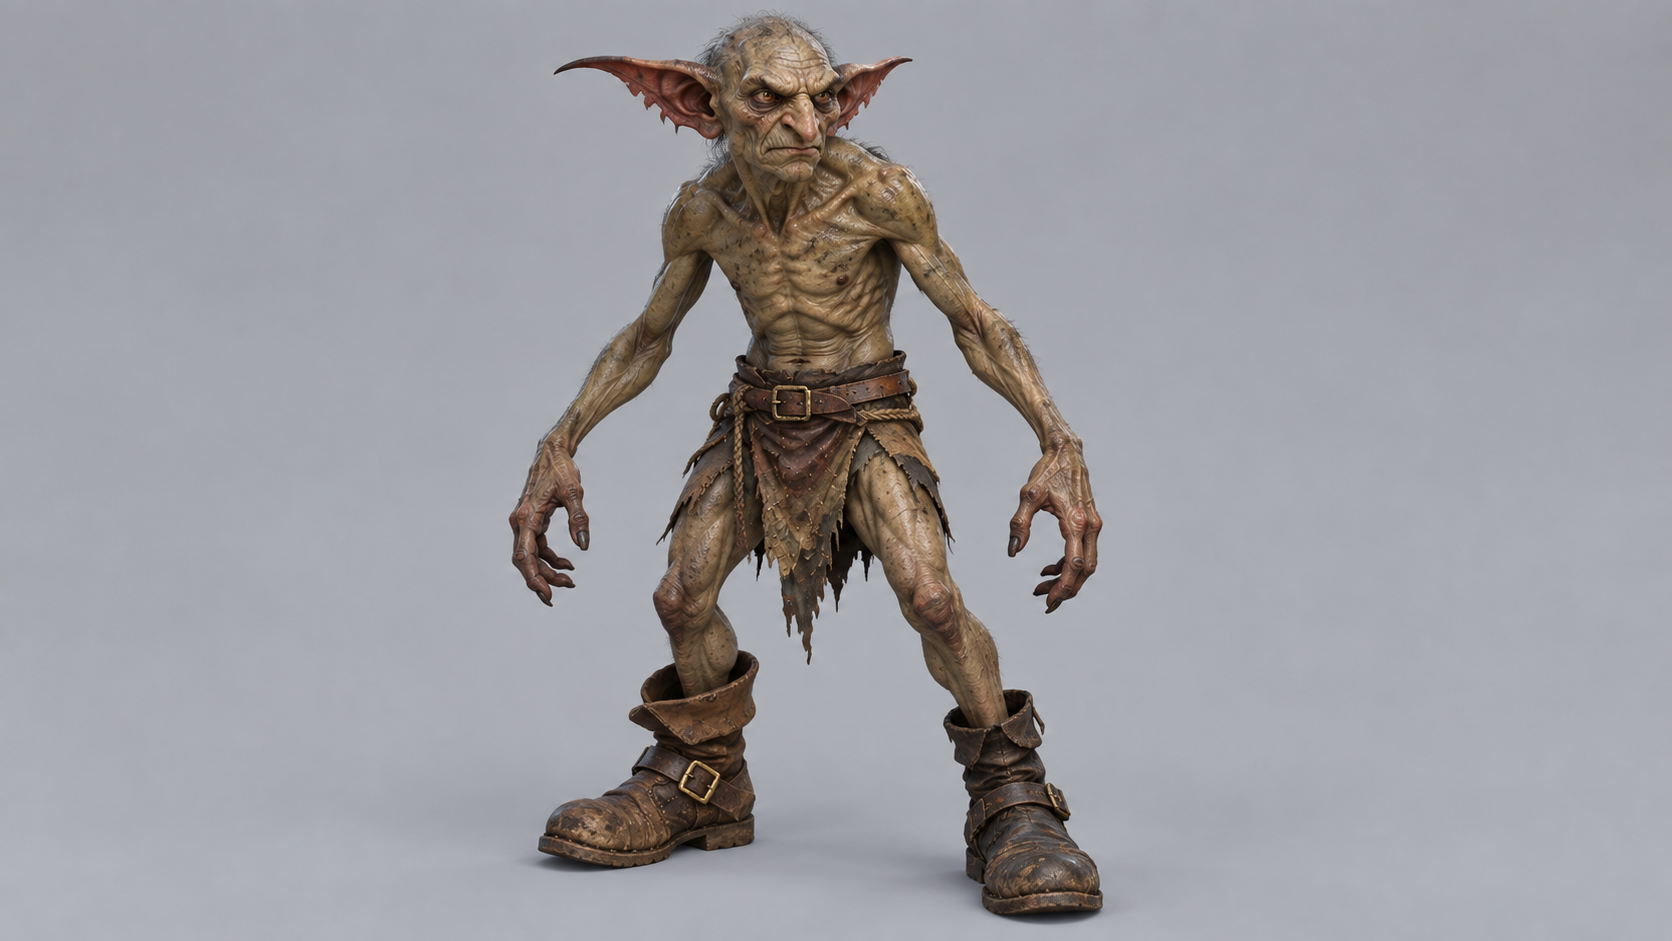
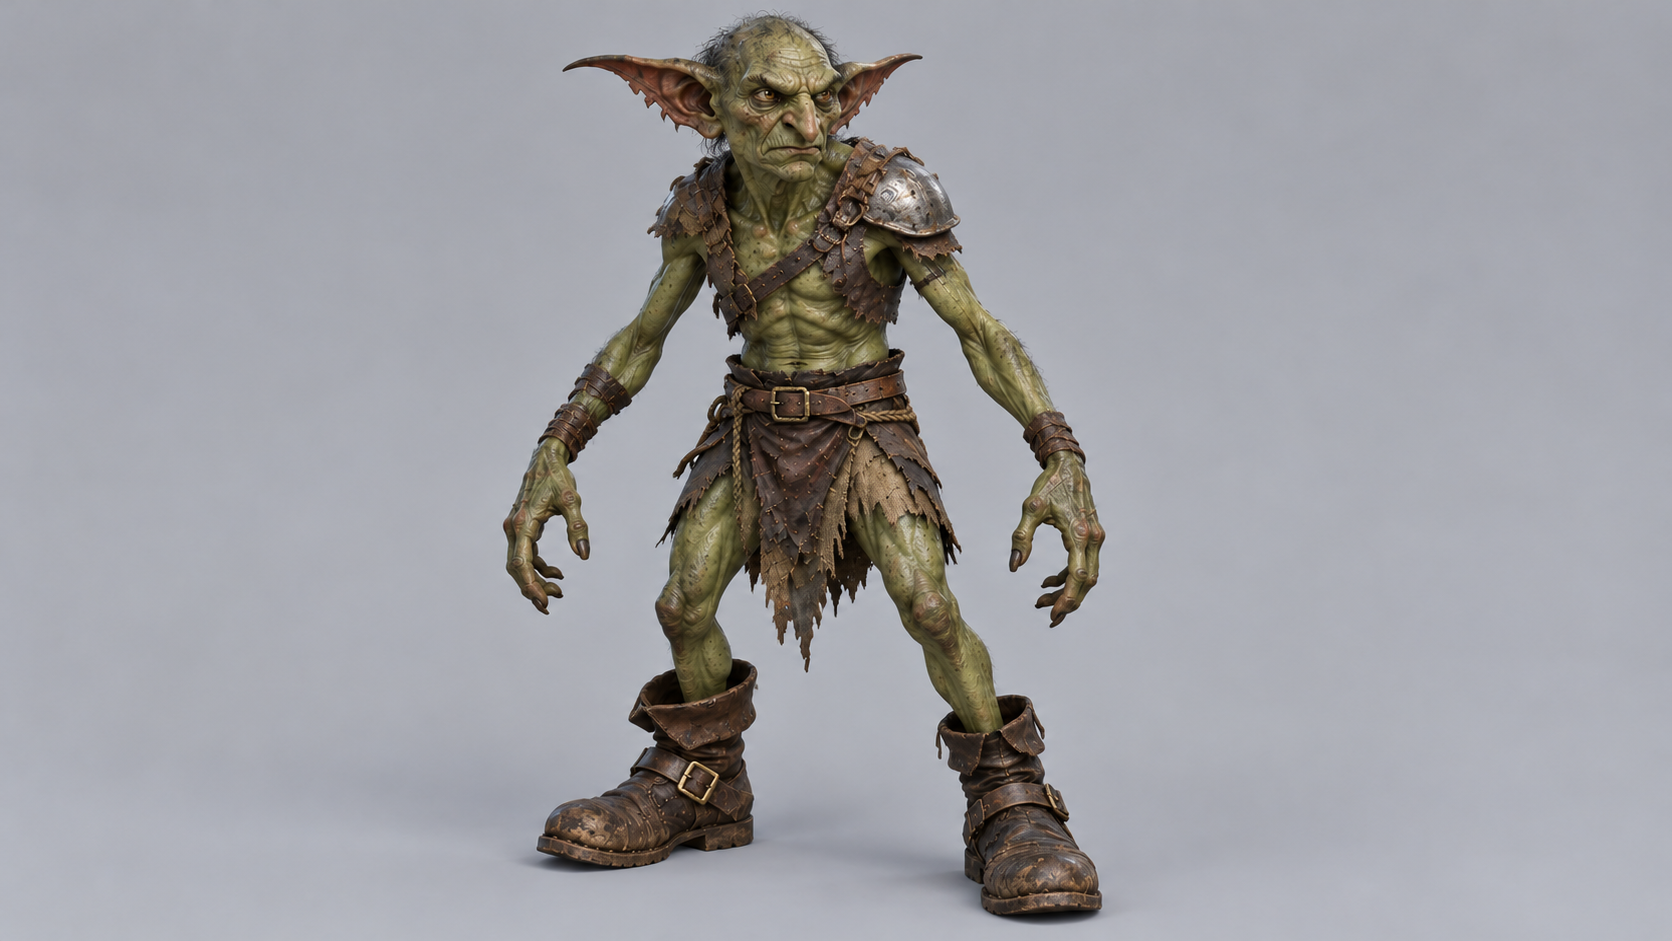
Goblin images

Changed region(s): [[0.2799, 0.0, 0.6842, 0.9554]]

diff --git a/.codex/skills/creature-model-references/references/prompt-recipes.md b/.codex/skills/creature-model-references/references/prompt-recipes.md
@@ -491,3 +491,60 @@ ONE complete adult creature, exactly TWO arms and ONE fish tail, no legs or wing
 
 Final gill anatomy: override any rib-like treatment with SOLID smooth grey flanks and a compact bank of four slender near-vertical crescent-shaped gill slits on each upper flank below the arm, arranged side by side rather than stacked down the torso. Narrow supple skin lips, flat continuous skin between slits, no white bars, raised ribs, exposed skeleton or large holes. Keep the lower flank intact. Keep every other part identical.
 ```
+
+
+### Goblin model-reference refresh — 10 October 2026
+
+One representative of each goblin people: Raider, Grunt and Gleaner. Built-in image generation; no correction rounds after the initial generation. The previous Green Goblin anchored studio presentation only; the Wolf anchored Red and Golden presentation only. All three were visually checked for two arms, two legs, separated limbs, complete framing and a plain background. Absolute size remains defined by the creature Markdown.
+
+#### Green Goblin — Raider
+
+Saved as `Assets/Creatures/Model-references/green-goblin-model-reference.png`. Fix rounds: 0. Known weak spots: Finger tips and layered leather edges may fuse; the shoulder plate covers part of the upper arm attachment.
+
+Consolidated prompt:
+
+```text
+Create ONE photorealistic high-end game creature MODEL REFERENCE, full body, neutral rig-friendly pose, intended for single-image image-to-3D reconstruction.
+Input image role: attached old goblin model reference is ONLY a studio lighting, background and photographic material finish anchor. Build anatomy and colours freshly from the written description below. Especially replace its tan/brown skin with unmistakable dull OLIVE GREEN.
+
+Subject: adult Green Goblin, representative Raider, hunched wiry humanoid 1.40 metres tall, 35–45 kilograms.
+Anatomy most important: exactly TWO arms attached at sharp shoulders, TWO legs at hips, four limbs total. Lean wiry long arms and legs, long fingers with five distinctly separated digits per hand, oversized pointed ears, narrow restless suspicious face, angular shoulders. A compact lightly hunched upright body, neck subtly forward; not muscular bodybuilder, not dwarf. Natural humanoid joints, clear gaps between arms and ribcage and between both legs. No horns, no wings, no tail.
+Appearance: dull olive-green skin, darker mossy green-brown on back and outer shoulders, muted paler olive inside arms and abdomen. Realistic pores, subtle dirt, uneven pigmentation. Face should remain a narrow cunning goblin, pronounced ear cartilage and nose, closed mouth. Sparse unkempt hair. Raider clothing: patched fitted leather shoulder protection, sparse worn leather chest straps leaving substantial green torso visible, rope belt with a few mismatched stolen buckles, short ragged cloth/leather hip covering and mismatched oversized stolen boots. One small battered hammered-pot armour plate secured to a shoulder; do not obscure elbow or shoulder attachment. Attached clothing only, no loose scavenged objects.
+Pose: neutral A-pose, both arms angled down about 45 degrees OUT from torso, elbows gently straight, EMPTY open hands, fingers spaced. Legs slightly apart, both boots flat visible separately. Retain species' mild hunch but no deep crouch, gesture, action or held weapon.
+Camera and presentation: three-quarter front view roughly 30–40 degrees, camera slightly above, sufficient separation to see both complete arms, both hands and both legs. All ear tips, fingers and boots inside frame with 5% margin. Plain LIGHT GREY seamless studio background, very soft even neutral lighting, no strong cast shadow, no scenery, text, labels, scale silhouette, border, books, weapons or shields. Photorealistic detailed skin, worn real leather and fabric, realistic high-end game model; never ink illustration, cartoon or metallic statue. ONE creature only.
+```
+
+#### Red Goblin — Grunt
+
+Saved as `Assets/Creatures/Model-references/red-goblin-model-reference.png`. Fix rounds: 0. Known weak spots: Overlapping scrap plates, shoulder spikes and knuckle guards may merge into solid geometry; armour conceals some underlying anatomy.
+
+Consolidated prompt:
+
+```text
+Create ONE photorealistic high-end game creature MODEL REFERENCE, full body, neutral rig-friendly pose, intended for single-image image-to-3D reconstruction. This is a NEW humanoid creature, not the animal in the reference.
+Input image role: attached wolf is ONLY a studio finish anchor: plain light-grey seamless background, soft even neutral lighting, realistic photographic material detail. Do not borrow wolf anatomy, fur or posture.
+
+Subject: adult RED GOBLIN GRUNT, a heavily muscular human-sized war goblin, 1.75–1.85 metres tall, 85–110 kilograms, NOT a small green goblin.
+Anatomy: exactly TWO humanoid arms at shoulders and TWO legs at hips, four limbs total. Thick neck, deep chest, very heavy shoulders, long powerful arms, large hands and muscular forearms. Slight forward lean, otherwise upright balanced neutral pose. Narrow goblin jaw and oversized POINTED EARS, not a broad tusked orc head. Five distinct separated fingers on each empty open hand. Both complete legs, feet and hands clearly visible with negative space between limbs and torso. No horns, tail, wings or extra appendages.
+Appearance: matte BRICK RED to DARK RUST skin, deeper on upper shoulders scalp and back, paler warm rust-red on chest and inner arms, pale old healed scar lines. Small deep-set YELLOW eyes, coarse BLACK hair in a single TOPKNOT. Narrow angular face, closed mouth, severe expression. Armour: forge-blackened mismatched scrap iron overlapping jagged plates riveted onto worn leather, shoulder spikes and small knuckle plates, made from stolen pots cart fittings broken blades and battlefield helmets. Functional crude armour rather than polished fantasy knight plate. Keep neck and face exposed, substantial red upper arms and forearms visible, clear joint articulation. Compact scrap shoulder guards, open neckline, riveted torso plates and leather straps, short plated leather hip skirt, separated arm bracers and greaves; complete foot coverings. Helmet left off to reveal facial anatomy. No shield or held weapon.
+Pose: neutral A-pose, both arms angled down about 45 degrees away from body, straight relaxed elbows, EMPTY open hands with separated fingers, palms slightly forward. Legs slightly apart, feet flat, slight species forward lean without action or deep crouch. Nothing crossing in front of torso.
+Camera: three-quarter front view about 35 degrees, slightly above, entire figure including topknot shoulder spike tips fingers and toes in frame with 5% margin. Frame closely enough that limb joints and face are readable. Plain light-grey seamless background, soft even studio illumination, minimal contact shading and no strong cast shadows. No text, labels, human scale marker, scenery, pedestal, props, weapon, shield, blood, book, logo or watermark. ONE character only, realistic skin pores and scars, hammered black iron, leather stitching, high-end photoreal game asset render, no cartoon or illustration.
+```
+
+#### Golden Goblin — Gleaner
+
+Saved as `Assets/Creatures/Model-references/golden-goblin-model-reference.png`. Fix rounds: 0. Known weak spots: Thin fingers, toes, ear edges and attached trinket cords may fuse. Gold paint should be reconstructed as a surface material rather than raised armour.
+
+Consolidated prompt:
+
+```text
+Create ONE photorealistic high-end game creature MODEL REFERENCE, full body, neutral rig-friendly pose, for single-image image-to-3D reconstruction. NEW HUMANOID creature, not the animal in attached reference.
+Input image role: attached wolf is ONLY an anchor for photographic finish, soft even neutral studio light, and plain LIGHT GREY background. Do not copy its anatomy, fur, colours or posture.
+
+Subject: adult GOLDEN GOBLIN GLEANER, pale emaciated cave scavenger with flaking gold paint. 1.40 metres tall, 25–32 kilograms, far thinner than a Green Goblin; NOT a bloated king, muscular goblin, solid-gold statue or armoured warrior.
+Anatomy most important: exactly TWO arms at narrow shoulders and TWO legs at hips. Starved-looking even when healthy, clearly visible ribs and knuckles, thin sticklike limbs, slightly distended belly, spine curving into a permanent mild STOOP. Long grasping fingers and toes, five clearly separated fingers per empty hand, long mobile pointed ears. Huge DARK WET EYES with dilated pupils. Wide mouth, SMALL crowded teeth mostly concealed by closed lips. Narrow gaunt face with sunken cheeks. Humanoid skeleton with very light lean physique, clear limb attachment and negative space around arms and between legs. No horns, wings, tail or extra limbs.
+Skin and materials: base skin SICKLY PALE WHITE, almost translucent, with delicate BLUE VEINS visible at temples, wrists and chest. GOLD IS ONLY PAINT applied ON TOP OF PALE SKIN. Separate irregular streaks, handprints and daubs of dull flaking metallic pyrite/mica gold mixed into greasy tallow; edges visibly cracked and worn. Large areas of bare pale-white skin remain visible on face, chest, forearms and thighs, worn pale patches at elbows and knees. Make gold look like thin gritty paint on living skin, never a smooth gold metal body. Small sparse attached cords around neck and wrists with buttons, brass buckles, a few coins, polished nails and small mirror/glass fragments; irregular scavenged trinkets, not luxurious heavy chains. Small simple earrings of shiny junk. Clothing minimal ragged cloth/leather shorts or an opaque short loincloth covering groin completely; bare torso, bare long-fingered hands, bare grasping feet. Nothing held in hands, no scavenger bag or detached objects.
+Pose: neutral upright A-pose while retaining modest species stoop, not all-fours or deep crouch. Both arms extend out/down about 45 degrees away from narrow torso, relaxed elbows, both EMPTY hands OPEN with separated fingers. Legs slightly apart, knees only softly bent, feet flat with long toes visible. All four limbs clearly separated, nothing crosses body.
+Camera: three-quarter front about 30–35 degrees from slightly above, entire head ears fingertips toes in frame with 5% margin, closely framed for anatomical readability. Plain light-grey seamless backdrop, very soft even neutral illumination; subtle contact shading only, no strong cast shadows, no torch scene, cave, treasure heap, other character, scale silhouette, border, title, labels, weapons, throne or props. Realistic pale translucent skin, fine veins, ragged cloth and granular flaky gold paint, like a high-end photorealistic horror-fantasy game model. Closed mouth, neutral watchful expression, no gore. ONE full creature only.
+```
+

diff --git a/Creatures/Golden-goblin.md b/Creatures/Golden-goblin.md
@@ -34,6 +34,12 @@ A mining camp at the edge of the mountains has been losing its dead. Bodies laid
 
 See also: [Creatures index](../Creatures.md), the [Deep Caverns](../Biomes/Deep-caverns.md) it lives in, the [Mountain Range](../Biomes/Mountain-range.md) whose mines it infests, the [Red Goblin](Red-goblin.md) war-hosts it trails, and [Death and Loss](../Death-and-loss.md).
 
+## Concept Drawing
+
+![Golden goblin bestiary entry](../Assets/Creatures/Bestiary/golden-goblin-bestiary.png)
+
+![Golden goblin model reference](../Assets/Creatures/Model-references/golden-goblin-model-reference.png)
+
 ## Inspiration
 
 The golden goblin is inspired by the goblins of Goblin-town in Peter Jackson's [*The Hobbit: An Unexpected Journey*](https://tolkiengateway.net/wiki/The_Hobbit:_An_Unexpected_Journey): pale, emaciated creatures swarming through the caves beneath the mountains in vast numbers, ruled by the bloated [Great Goblin](https://tolkiengateway.net/wiki/Great_Goblin) on his throne, which is the direct model for the Gilded King. What differs is the temperament. Golden goblins are cowardly scavengers rather than captors and torturers, they are blinded by sunlight rather than merely disliking it, and they are driven by a compulsion for anything that shines, which gives them the gold paint, the trinkets and the hoard that their film counterparts lack.

diff --git a/Creatures/Red-goblin.md b/Creatures/Red-goblin.md
@@ -36,6 +36,12 @@ A frontier hamlet on the edge of the plains has heard drums in the foothills eve
 
 See also: [Creatures index](../Creatures.md), the [Green Goblin](Green-goblin.md) bands it presses into service, the [Golden Goblin](Golden-goblin.md) that trails its war-hosts, the [Mountain Range](../Biomes/Mountain-range.md), [Mesa](../Biomes/Mesa.md) and [Plains](../Biomes/Plains.md) it raids from and across, and [Raids](../Raids.md).
 
+## Concept Drawing
+
+![Red goblin bestiary entry](../Assets/Creatures/Bestiary/red-goblin-bestiary.png)
+
+![Red goblin model reference](../Assets/Creatures/Model-references/red-goblin-model-reference.png)
+
 ## Inspiration
 
 The red goblin draws on the orcs of [J. R. R. Tolkien's Middle-earth](https://tolkiengateway.net/wiki/Orcs), and particularly the [Uruk-hai](https://tolkiengateway.net/wiki/Uruk-hai) as Peter Jackson's *The Lord of the Rings* films presented them: human-sized, muscular warriors in jagged, forge-blackened scrap armour, fighting as a disciplined mass behind shields and marching to drums. What differs is the master. Red goblins serve no dark lord and were made by no one; they are a people of the wild, and their war is their own, driven by iron, plunder and the standing of each Warboss rather than by a will greater than theirs.
